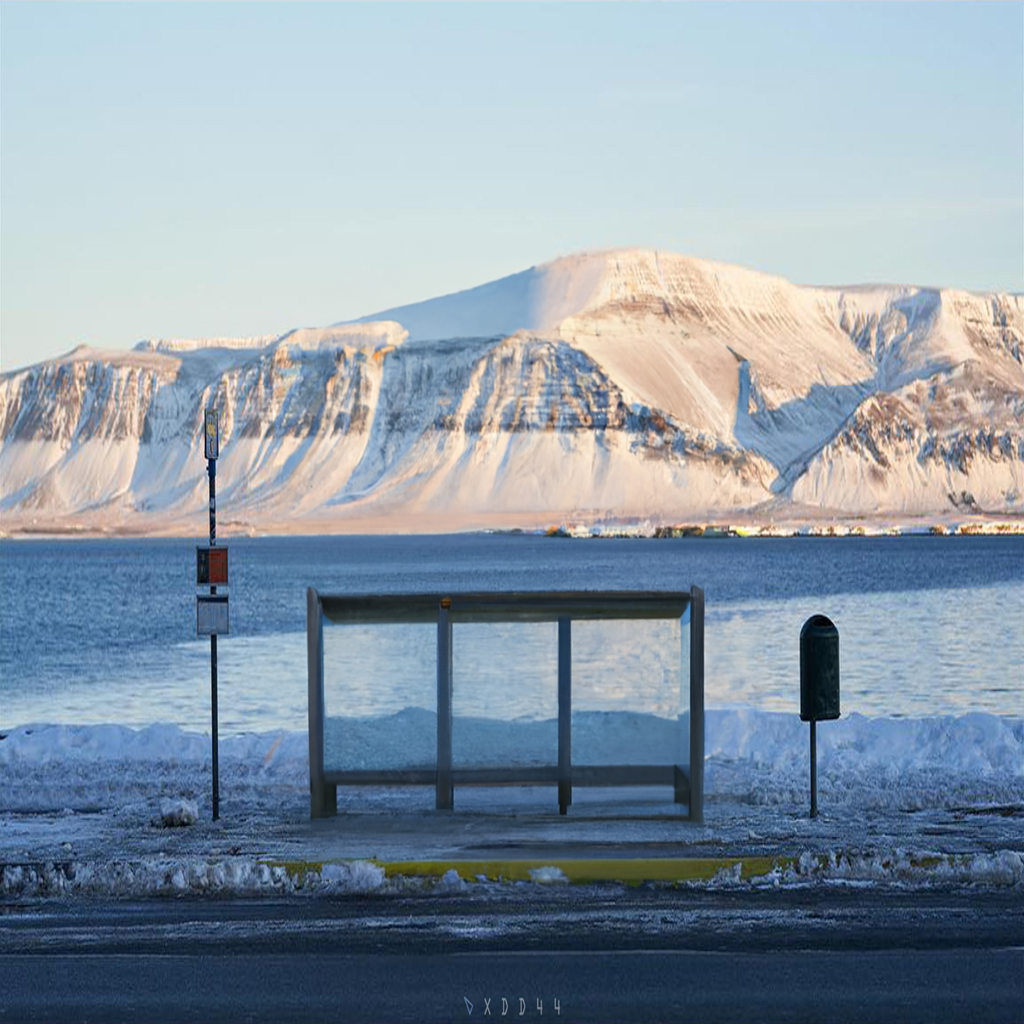
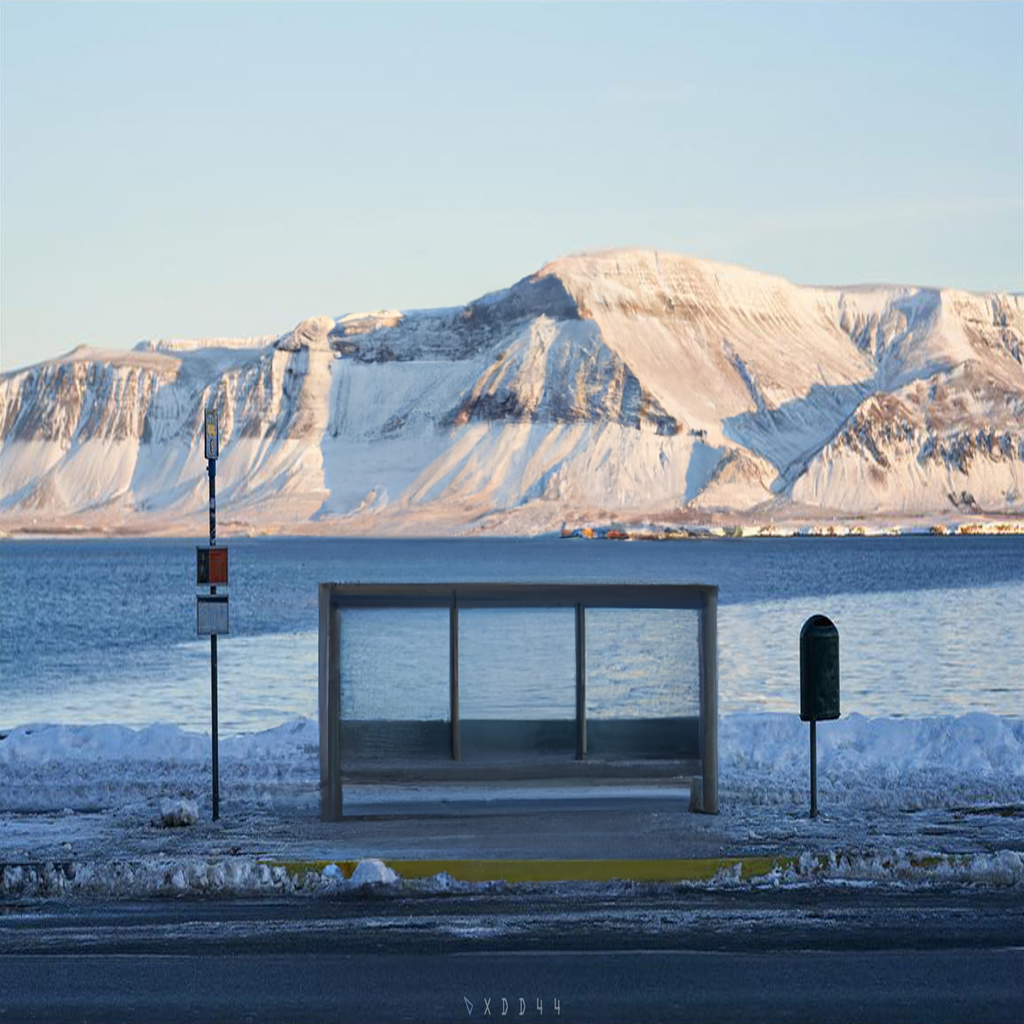
full image mask

Changed region(s): [[0.25, 0.5625, 0.75, 0.875], [0.25, 0.25, 0.75, 0.5312]]

diff --git a/image_related/image_generation.py b/image_related/image_generation.py
@@ -16,7 +16,7 @@ if (not os.path.isfile(".env")):
 	quit()
 
 load_dotenv()
-client = OpenAI()
+client = OpenAI(api_key=os.getenv("OPENAI_API_KEY"))
 
 def load_image(path):
 	image = Image.open(path)
@@ -53,10 +53,59 @@ def image_edition(prompt, image_path, mask_path):
 	)
 	return response.data[0]
 
+def image_variation(image_path, n=1):
+	image = load_image(image_path)
+	response = client.images.create_variation(
+		image=image,
+		n=n,
+		size="1024x1024",
+		response_format="b64_json"
+	)
+	return response.data[0]
+
+def create_full_mask(image_path, output_path="full_mask.png"):
+	# Open the original image to get its size
+	with Image.open(image_path) as img:
+		# Create a new white image with the same size
+		mask = Image.new('RGB', img.size, (255, 255, 255))
+		mask.save(output_path)
+	return output_path
+
+# Set your image name here
+IMAGE_NAME = "IMG_0969.png"
+
+# List of example prompts
+PROMPTS = [
+    "Make the image more vibrant and colorful",
+    "Add a dreamy, ethereal effect",
+    "Convert to a watercolor painting style",
+    "Make it look like an oil painting",
+    "Add a warm, golden hour lighting effect",
+    "Make it look like a vintage photograph",
+    "Add a dramatic cinematic lighting",
+    "Convert to a pencil sketch style",
+    "Add a magical fantasy atmosphere",
+    "Make it look like a comic book illustration"
+]
+
+# Select which prompt to use (change this number to try different prompts)
+PROMPT_INDEX = 0  # Change this number to try different prompts (0-9)
+
+# Create a full white mask for your image
+mask_path = create_full_mask(IMAGE_NAME)
+
+# Use the selected prompt to edit the image
+response = image_edition(
+    prompt=PROMPTS[PROMPT_INDEX],
+    image_path=IMAGE_NAME,
+    mask_path=mask_path
+)
+decode_and_save_image(response.b64_json, "sample_output.png")
+
+# Print which prompt was used
+print(f"Used prompt: {PROMPTS[PROMPT_INDEX]}")
+
 # response = image_generation("A key building that represents MIT")
 # decode_and_save_image(response.b64_json, "sample_output.png")
 # # Dall-e-3 will revise your prompt and you can check it in response object
 # print(response.revised_prompt)
-
-response = image_edition("A bus stop", "sample_image.jpg", "sample_mask.png")
-decode_and_save_image(response.b64_json, "sample_output.png")
